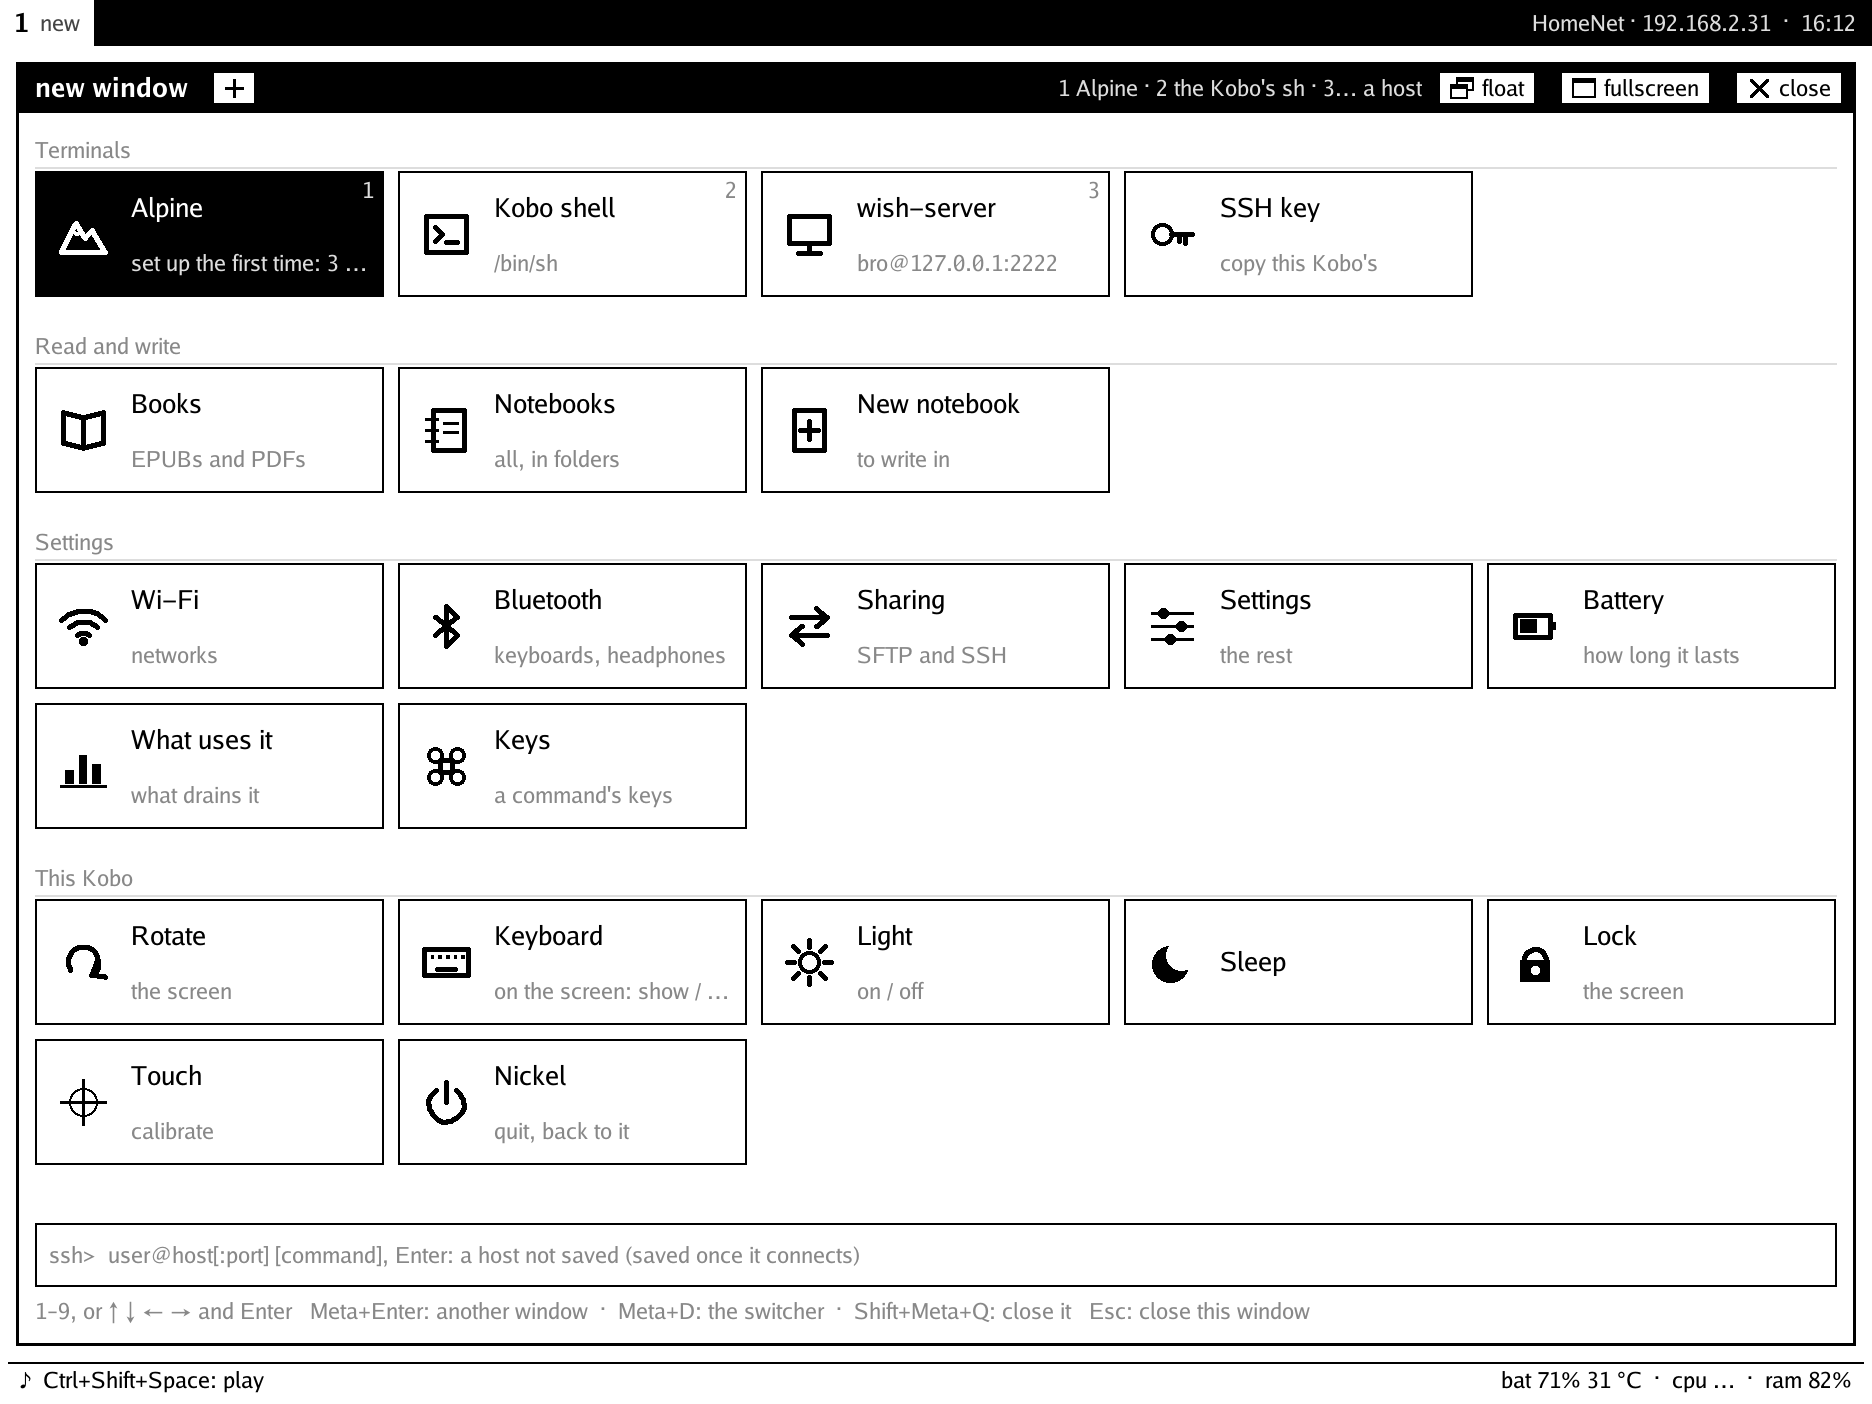
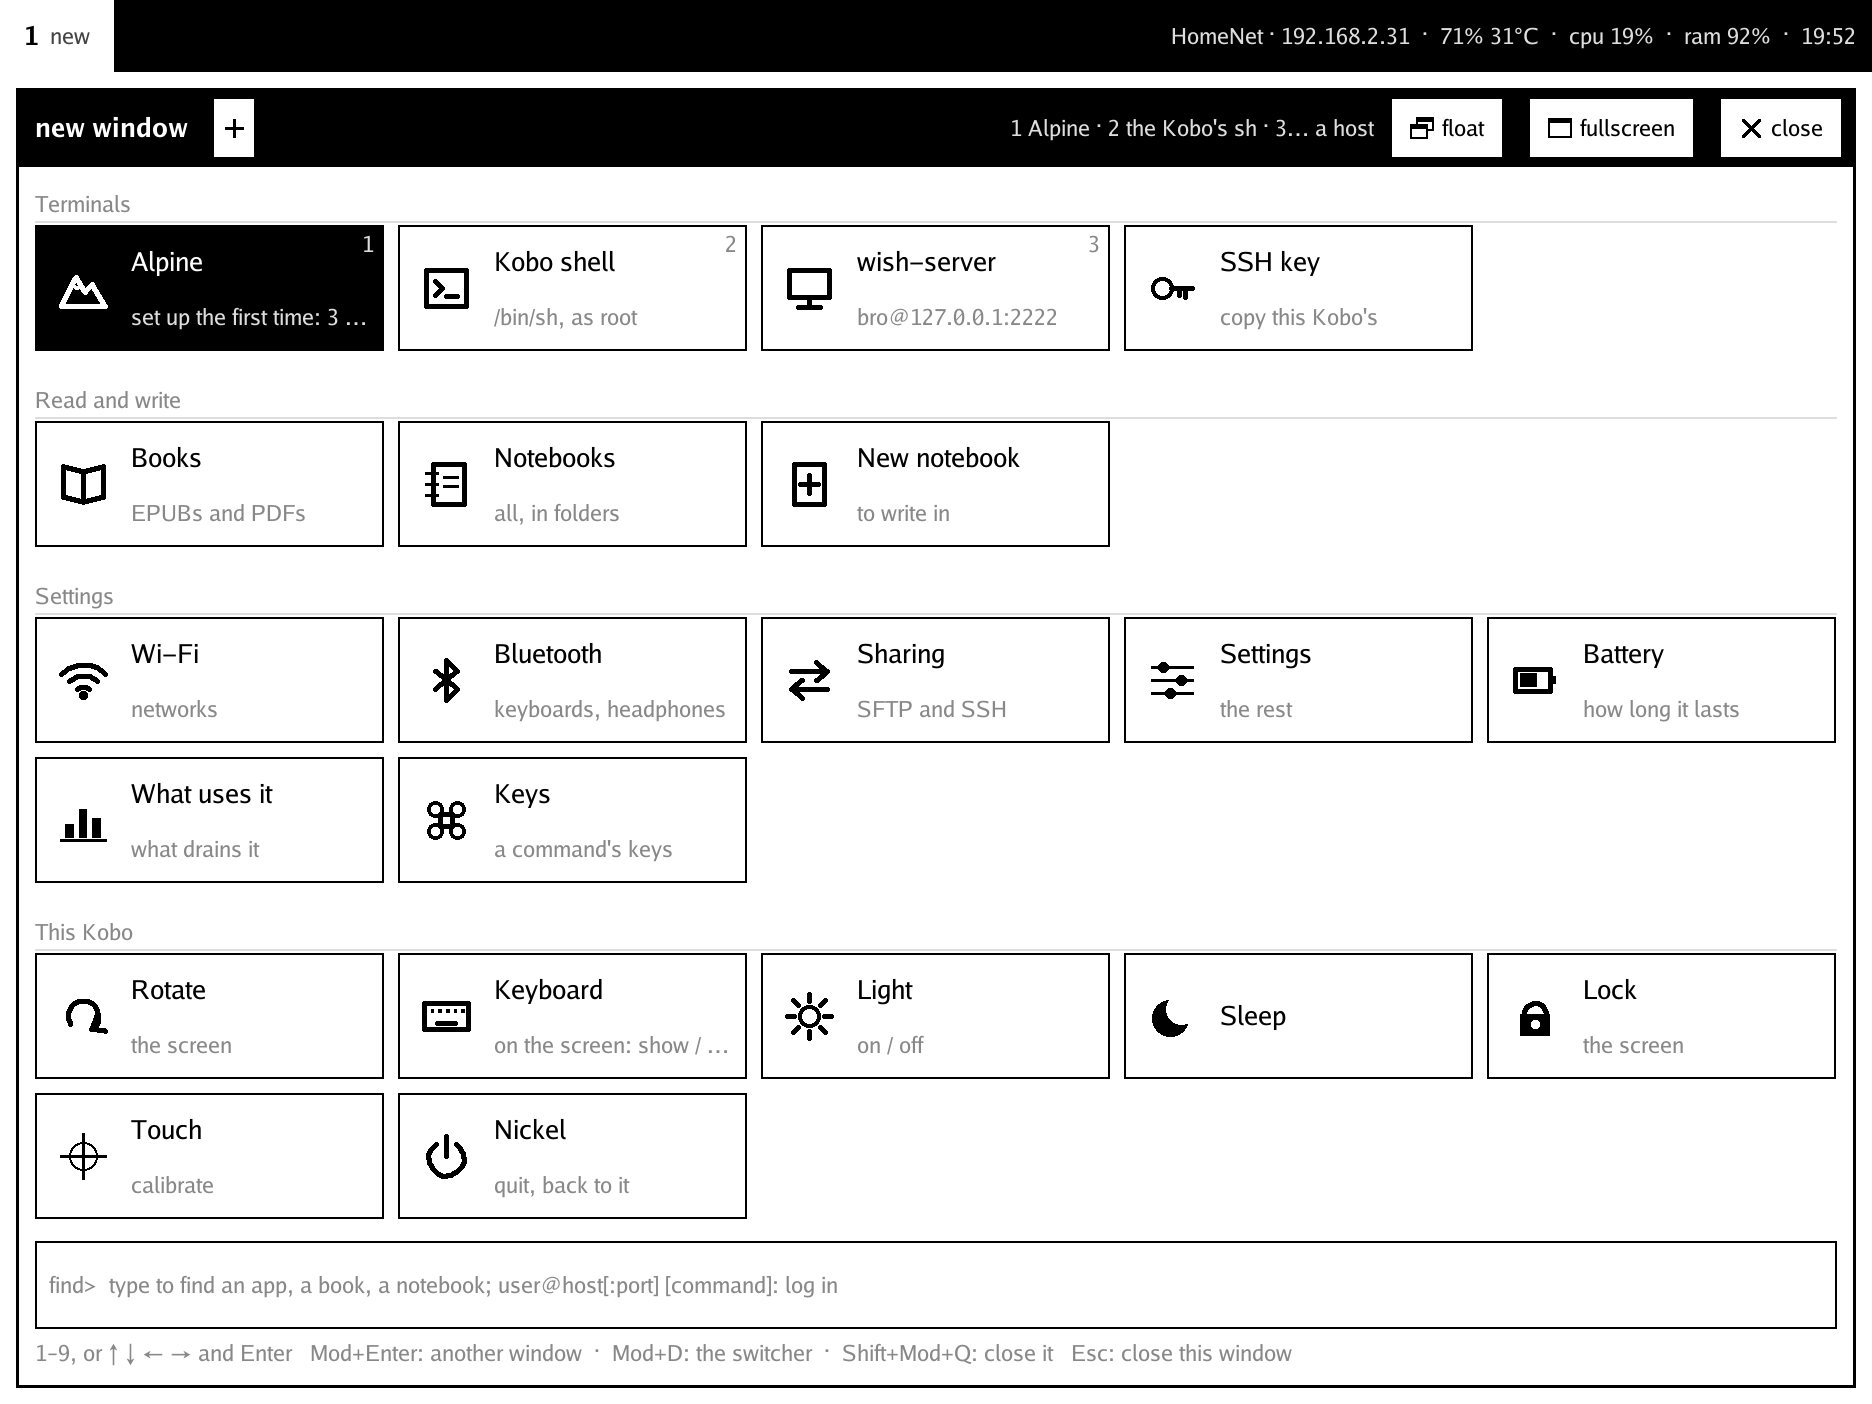
Docs: Mod in the last line and in the screenshots
The launcher, the tiling and switcher, and the workspaces' shots
taken again: their hints said Meta. The launcher's as root, as on the
Kobo, not as the PC's user.

diff --git a/docs/usage.md b/docs/usage.md
@@ -329,7 +329,7 @@ window). `[name]` starts a binding mode's keys, `[default]` goes back:
 pgup, pgdn, home, end, insert, delete, the marks (`- = [ ] ; ' , . /`,
 and `minus` for `-`), brightnessup and brightnessdown (a keyboard's
 light keys), and any other by its Linux code (`key183`), with any of
-ctrl, shift, alt and meta. Saved (over SFTP, say), it takes effect at
+ctrl, shift, alt and mod (meta works too). Saved (over SFTP, say), it takes effect at
 once; the log says what it didn't understand. The workspaces' corners,
 the hints and an empty workspace show the keys as they are. The ids of an older
 hellobro that have a match now are read as it (`tab.1` as `workspace
